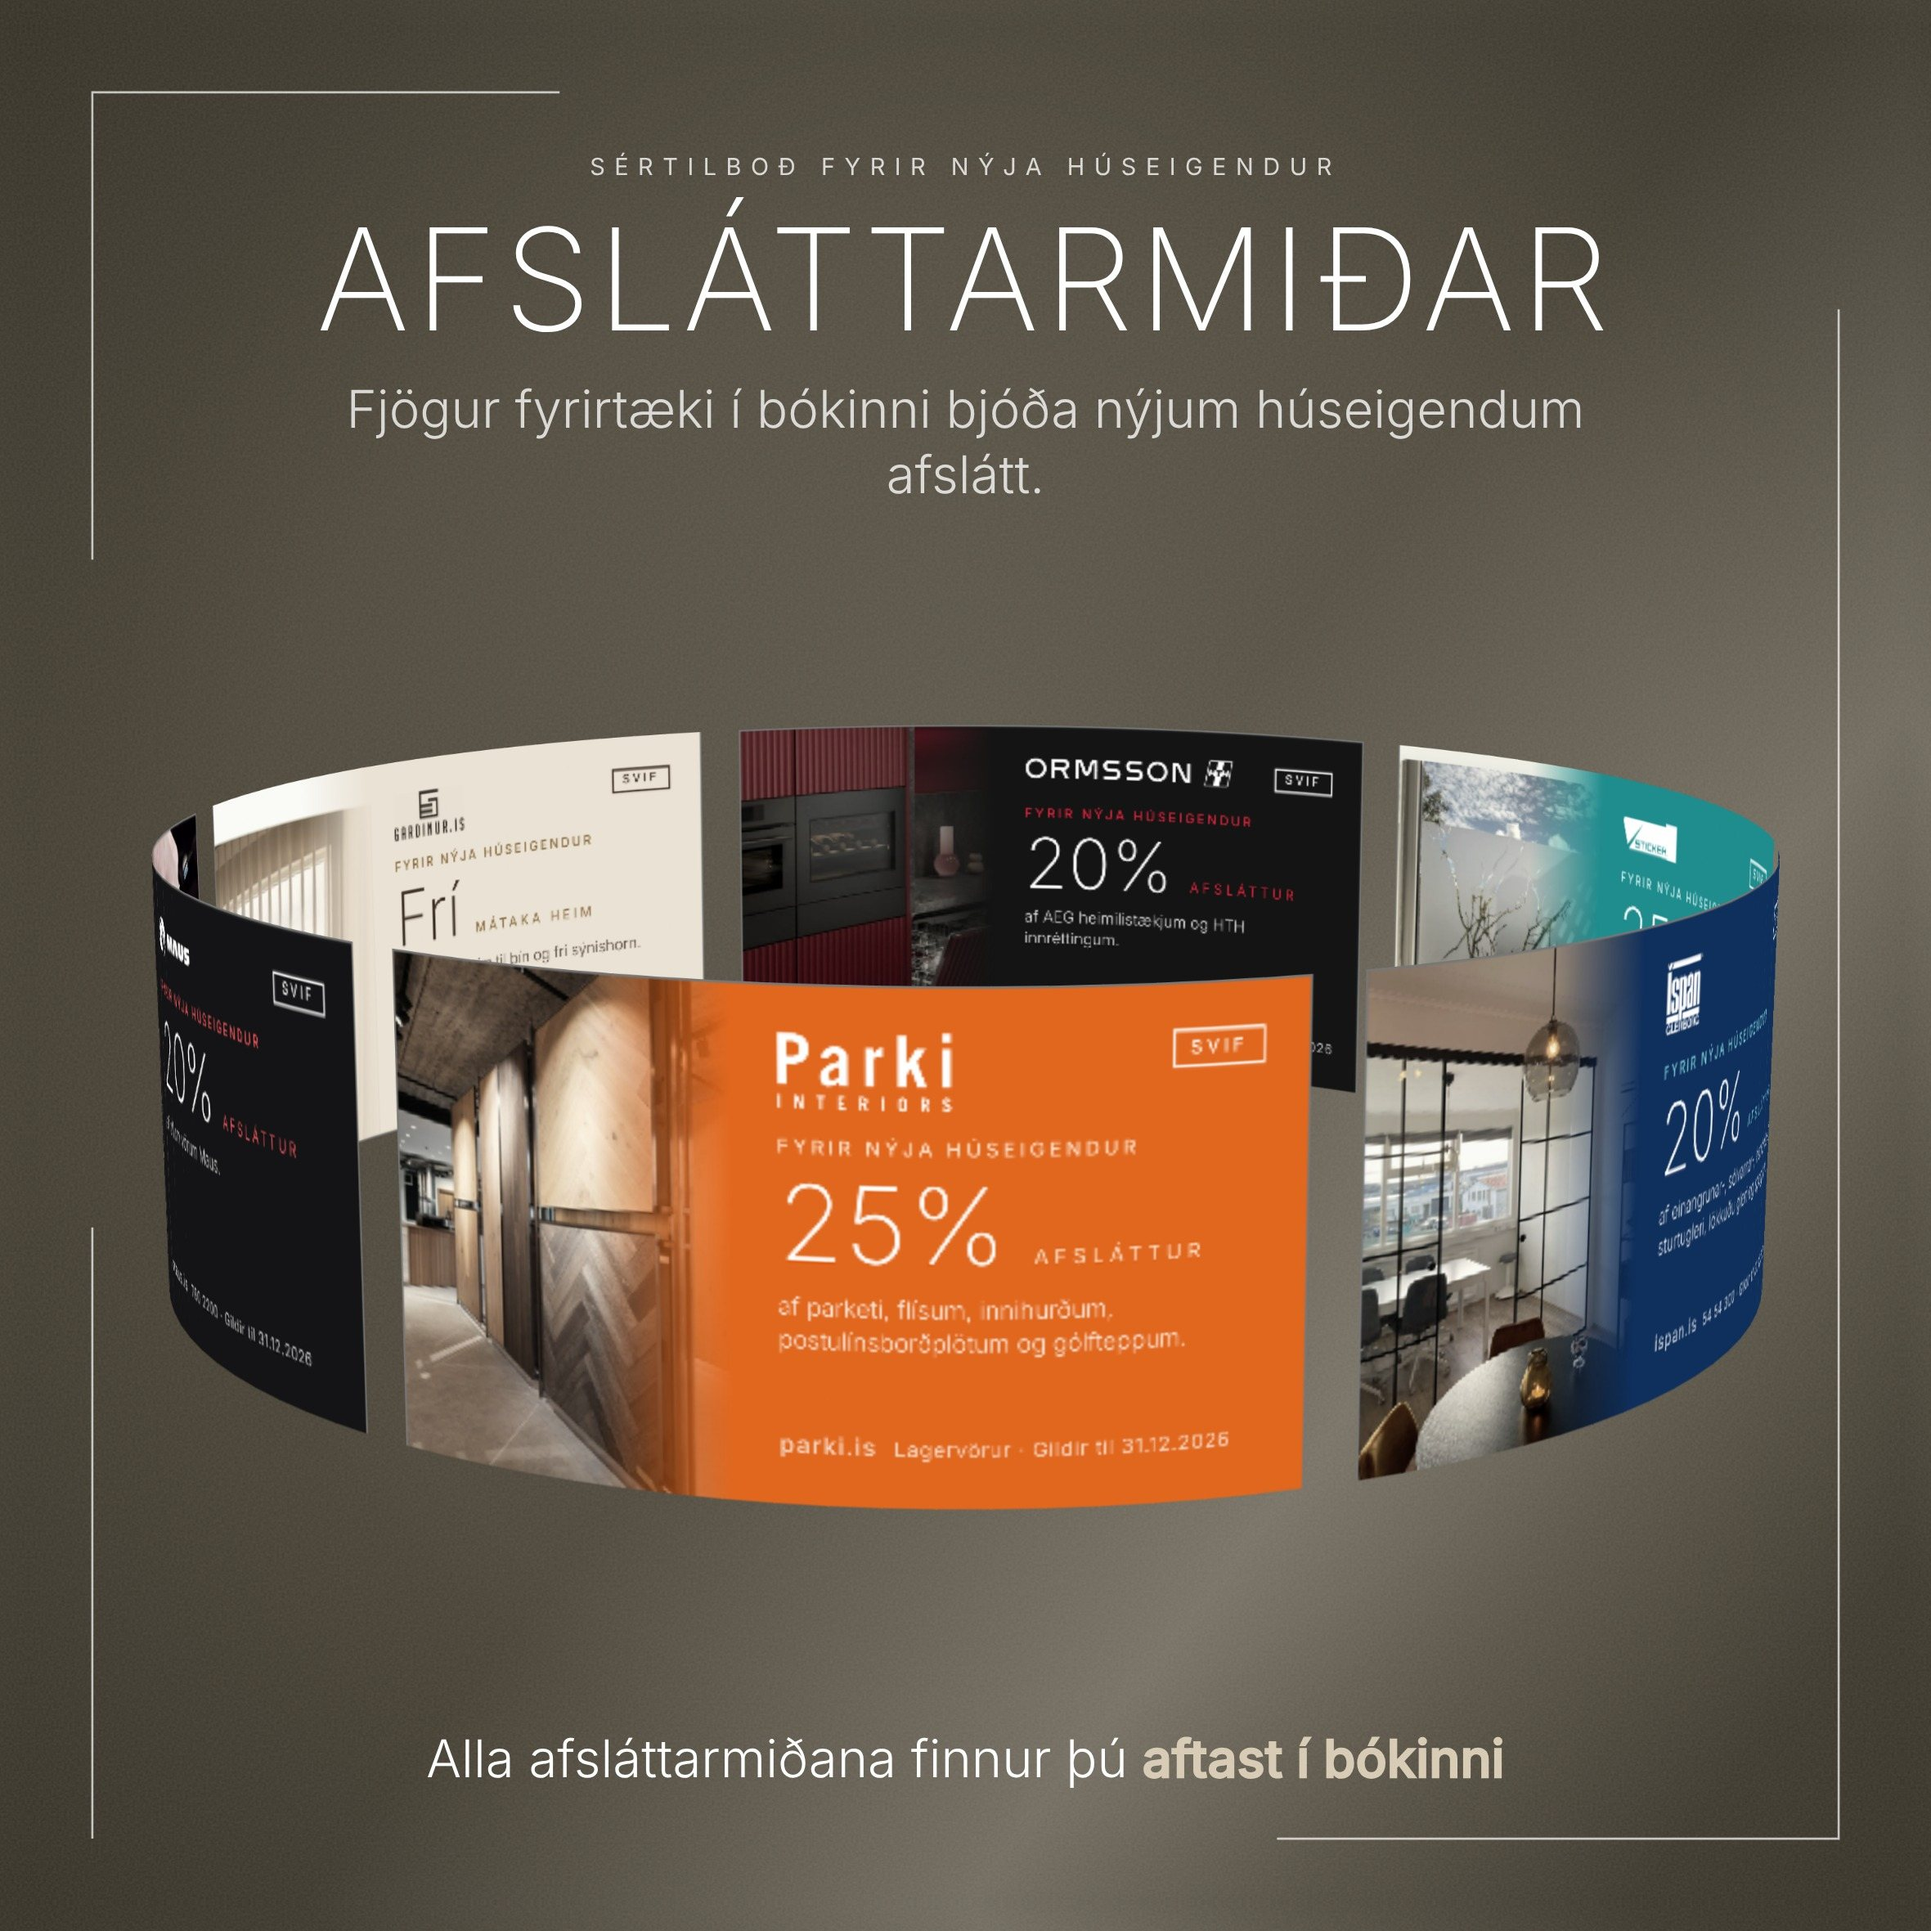
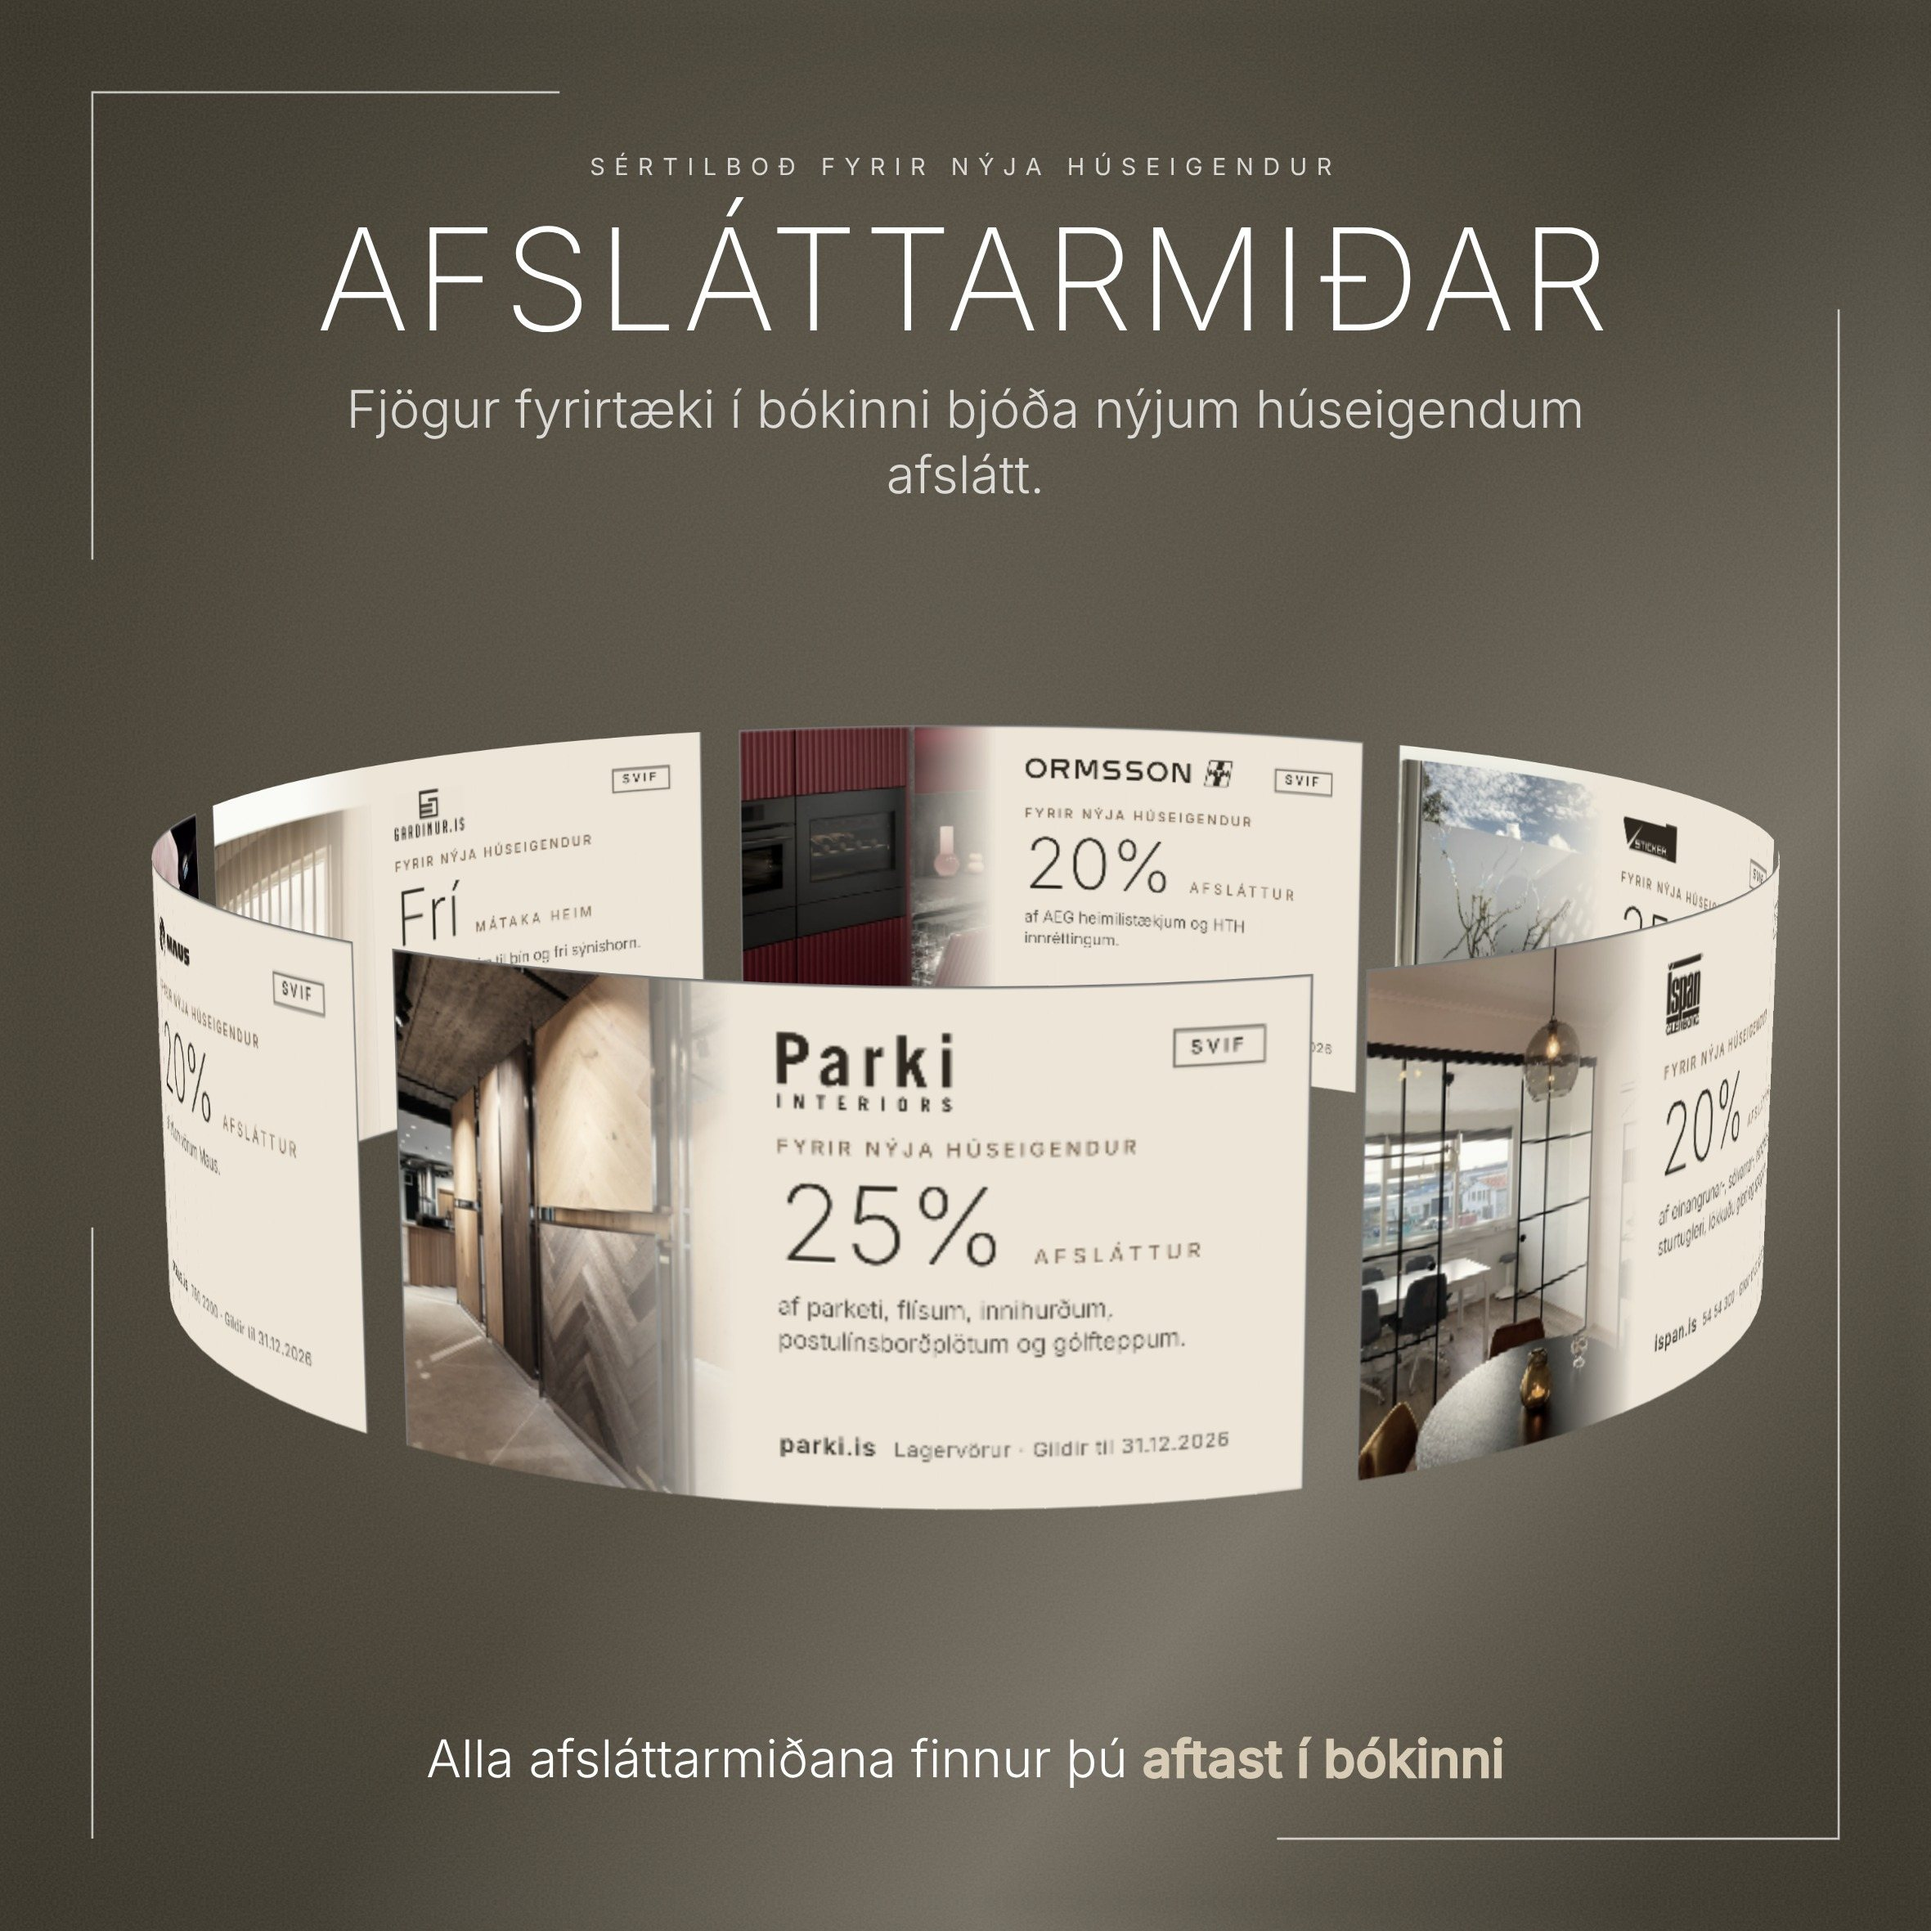
SVIF bæklingur: miðarnir á bls. 25 í litum fyrirtækjanna, beige-hvítir í hringnum á bls. 3
Claude-Session: https://claude.ai/code/session_01JAXd2kxjoayDuyNhEKw2yp

Changed region(s): [[0.3092, 0.371, 0.7111, 0.8039], [0.773, 0.371, 0.9276, 0.7421], [0.0618, 0.4329, 0.2164, 0.7421]]

diff --git a/svif-baeklingur/midasida_thema.py b/svif-baeklingur/midasida_thema.py
@@ -1,0 +1,29 @@
+"""Bls. 25: afsláttarmiðarnir (sem eru rifnir úr) í litum hvers fyrirtækis."""
+import os
+import midar2 as m2
+import midar3 as m
+from ring_theme import THEME
+D = os.path.dirname(os.path.abspath(__file__))
+
+def tile(key, x, y, el, er, eb):
+    bg, ink, acc, dark = THEME[key]
+    inner = m.midi(key, el, er, eb)
+    if not dark:
+        inner = inner.replace('dokkmerki/', 'hvit/')
+    r, g, b = int(bg[1:3], 16), int(bg[3:5], 16), int(bg[5:7], 16)
+    inner = inner.replace('rgba(236,229,216,0)', f'rgba({r},{g},{b},0)').replace(m.PANEL, bg)
+    return (f'<div class="tile" style="left:{x - el}mm;top:{y}mm;width:{m.W + el + er}mm;height:{m.H + eb}mm;background:{bg};overflow:hidden">'
+            f'<div class="mi" id="t_{key}" style="left:{el}mm">{inner}</div></div>')
+
+html = m2.midar()
+a = html.index('<div class="tile"'); b = html.index('<svg class="perf"')
+tiles = (tile('parki', m2.X0, m2.Y0, m2.X0, 0, 0) + tile('ispan', m2.X1, m2.Y0, 0, m2.B, 0) +
+         tile('ormsson', m2.X0, m2.Y1, m2.X0, 0, m2.B) + tile('maus', m2.X1, m2.Y1, 0, m2.B, m2.B))
+css = m.CSS
+for k, (bg, ink, acc, dark) in THEME.items():
+    css += (f'#t_{k}{{color:{ink}}}#t_{k} .ey,#t_{k} .sm{{color:{acc}!important}}#t_{k} .lead{{color:{ink}!important;opacity:.9}}'
+            f'#t_{k} .foot{{color:{ink}!important;opacity:.75}}#t_{k} .foot b{{color:{ink}!important}}#t_{k} .tag{{border-color:{ink}!important;color:{ink}}}')
+html = html[:a] + tiles + html[b:]
+html = html.replace('</style>', css + '</style>', 1)
+open(os.path.join(D, 'midar_thema_framhlid.html'), 'w', encoding='utf-8').write(html)
+print('ok')

diff --git a/svif-baeklingur/assemble_all.py b/svif-baeklingur/assemble_all.py
@@ -11,7 +11,7 @@ PAGES = [  # (heiti, uppruni) – 29 síður (endanlegur síðufjöldi ákveðin
     ('Íspan', img(6)), ('Sticker', img(7)), ('Maus', ad(11)), ('Maus', ad(12)), ('Gluggavinir', img(17)), ('TME Gluggar', ny('tme')),
     ('KORA', ad(8)), ('Litamálun', ny('litamalun')), ('Múrbúðin', img(19)), ('RÓM Verk', img(23)), ('HK Lagnir', ad(15)), ('MS Lagnir', ny('mslagnir')),
     ('Lásar.is', img(16)), ('VÍS', ad(25)),
-    ('Af hverju SVIF', os.path.join(D,'out','umsvif_dark.jpg')), ('Afsláttarmiðar', os.path.join(D,'out','midar3_framhlid.jpg')), ('Auð síða (bakhlið miðanna)', os.path.join(D,'out','d_aud.jpg')),
+    ('Af hverju SVIF', os.path.join(D,'out','umsvif_dark.jpg')), ('Afsláttarmiðar', os.path.join(D,'out','midar_thema_framhlid.jpg')), ('Auð síða (bakhlið miðanna)', os.path.join(D,'out','d_aud.jpg')),
     ('Fagafl', ny('fagafl')), ('Kærar þakkir', os.path.join(D,'out','d_thakkir.jpg')), ('Bakkápa', ny('kapa_bak')),
 ]
 assert len(PAGES) == 29
